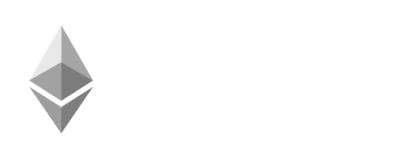
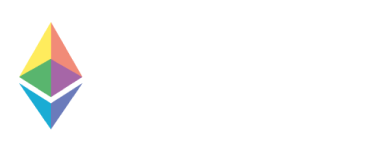
sponsors update

Changed region(s): [[0.0291, 0.1579, 0.2328, 0.8421]]

diff --git a/src/routes/+page.svelte b/src/routes/+page.svelte
@@ -2,17 +2,10 @@
 	import { sponsors } from '$lib/data.json';
 
 	const tiers = [
-		{
-			id: 'schnorr',
-			name: 'Schnorr'
-		},
+
 		{
 			id: 'ecdsa',
 			name: 'ECDSA'
-		},
-		{
-			id: 'aes',
-			name: 'AES'
 		},
 		{
 			id: '3des',
@@ -158,7 +151,7 @@
 					{#each sponsors.filter((x) => x.tier.includes(tier.id)) as sponsor}
 						<a href={sponsor.url} rel="noopener noreferrer" target="_blank" alt="link to">
 							<img
-								class="w-60 m-6"
+								class="w-60 m-6 grayscale hover:grayscale-0"
 								src="/photos/sponsors/{sponsor.id}.png"
 								alt="{sponsor.name} Logo"
 							/>
